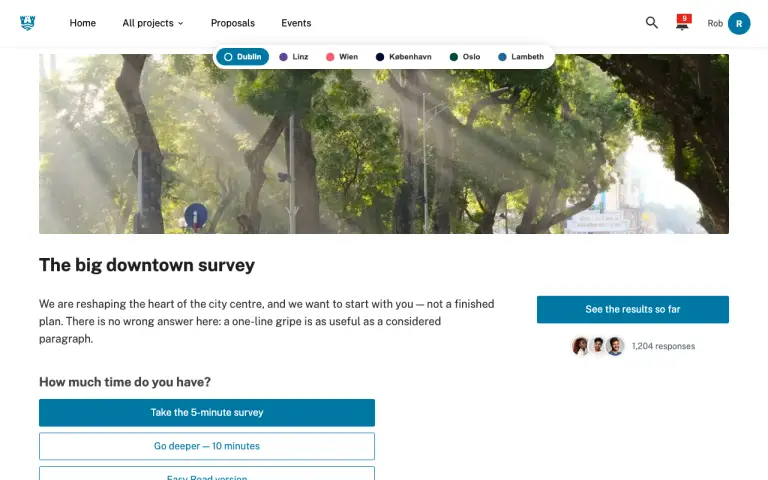
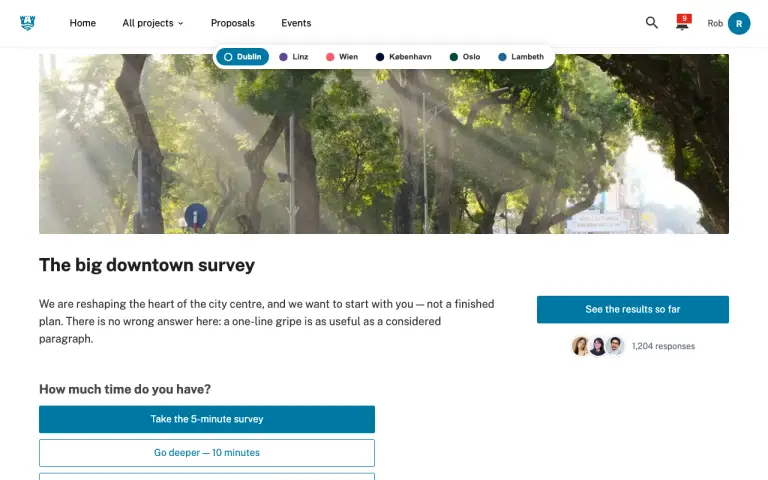
city-explorations: split Dublin into two rows so the participation box sits beside the intro

Changed region(s): [[0.0312, 0.7812, 0.5, 1.0], [0.75, 0.6875, 0.8125, 0.75]]

diff --git a/parallel-participation/prototypes/city-explorations/index.html b/parallel-participation/prototypes/city-explorations/index.html
@@ -370,7 +370,7 @@
         { label: 'Go deeper — 10 minutes', style: 'secondary' },
         { label: 'Easy Read version', style: 'secondary' }
       ] },
-      layout: ['banner', 'title', { row: [['intro', 'surveys', 'desc'], ['about']], tpl: 'main-aside' }, 'partbar', 'timeline', 'events'],
+      layout: ['banner', 'title', { row: [['intro'], ['about']], tpl: 'main-aside' }, { row: [['surveys', 'desc'], []], tpl: 'main-aside' }, 'partbar', 'timeline', 'events'],
       events: [['Jun', '18', 'Drop-in: help with the survey', '18 Jun · 17:30 – 19:00', 'Central Library', '26', 'oldtown']]
     },
     {
